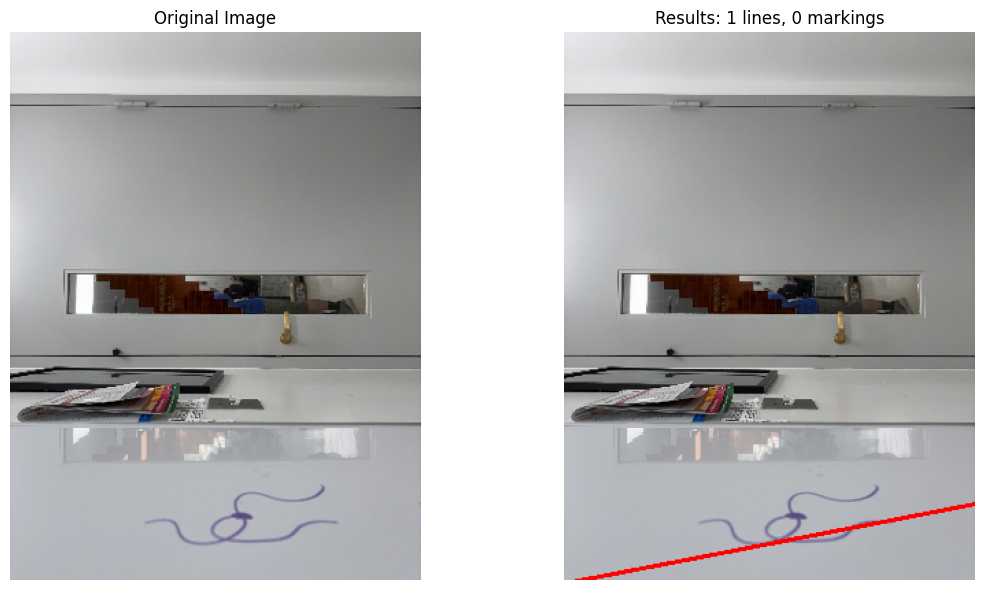
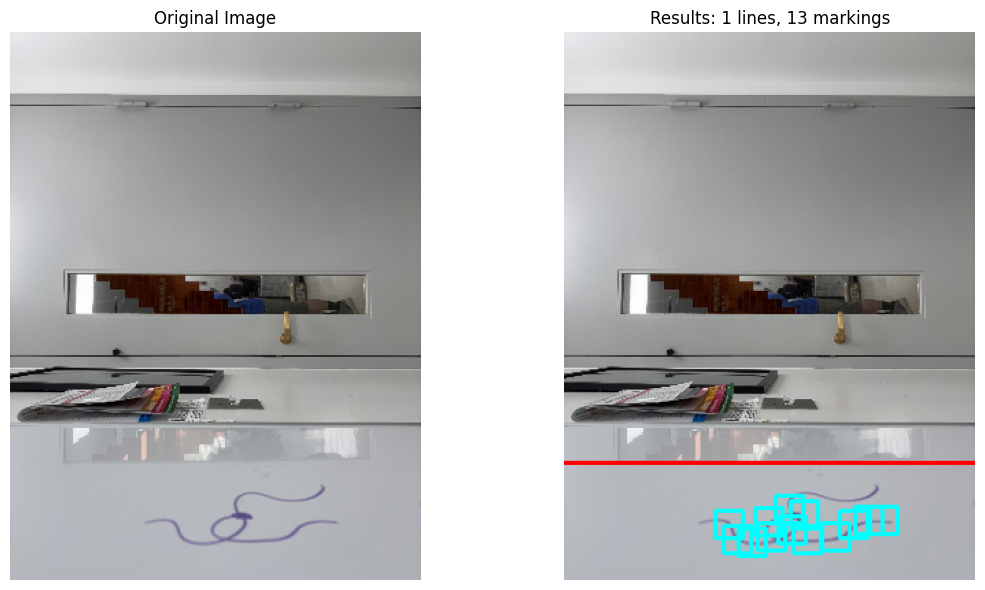
edits to picam compatibility

diff --git a/whiteboard_tracker5.py b/whiteboard_tracker5.py
@@ -70,70 +70,135 @@ class WhiteboardTracker5:
                   f"low_contrast={is_low_contrast}")
         
         return is_low_contrast
+    
+    def detect_camera_type_and_preprocess(self, image: np.ndarray) -> np.ndarray:
+        """Detect camera type and apply appropriate preprocessing"""
+        # Analyze image characteristics to detect camera type
+        gray = cv2.cvtColor(image, cv2.COLOR_BGR2GRAY)
+        
+        # Calculate image statistics
+        mean_brightness = np.mean(gray)
+        std_brightness = np.std(gray)
+        
+        # Check for Pi camera characteristics
+        # Pi camera tends to produce overexposed, low-contrast images
+        is_likely_pi_camera = (
+            mean_brightness > 180 or  # Overexposed
+            std_brightness < 25       # Low contrast
+        )
+        
+        if self.debug:
+            print(f"  Image analysis: mean_brightness={mean_brightness:.1f}, std={std_brightness:.1f}")
+            print(f"  Likely Pi camera: {is_likely_pi_camera}")
+        
+        if is_likely_pi_camera:
+            # Apply Pi camera specific preprocessing
+            processed_image = self.preprocess_pi_camera_image(image)
+        else:
+            # iPhone or other camera - minimal processing
+            processed_image = image.copy()
+        
+        return processed_image
+    
+    def preprocess_pi_camera_image(self, image: np.ndarray) -> np.ndarray:
+        """Apply preprocessing specifically for Pi Camera Module 3 images"""
+        if self.debug:
+            print("  Applying Pi camera preprocessing...")
+        
+        # Convert to LAB color space for better control
+        lab = cv2.cvtColor(image, cv2.COLOR_BGR2LAB)
+        l, a, b = cv2.split(lab)
+        
+        # Method 1: Enhance contrast using CLAHE on L channel
+        clahe = cv2.createCLAHE(clipLimit=2.0, tileGridSize=(8,8))
+        l_enhanced = clahe.apply(l)
+        
+        # Method 2: Adjust gamma to reduce overexposure
+        # Gamma correction: lower gamma darkens the image
+        gamma = 0.7  # Darken overexposed areas
+        l_gamma = np.power(l_enhanced / 255.0, gamma) * 255.0
+        l_gamma = np.uint8(np.clip(l_gamma, 0, 255))
+        
+        # Method 3: Increase contrast by stretching histogram
+        # Find 5th and 95th percentiles to ignore outliers
+        p5, p95 = np.percentile(l_gamma, (5, 95))
+        if p95 > p5:  # Avoid division by zero
+            l_stretched = np.clip((l_gamma - p5) * 255 / (p95 - p5), 0, 255).astype(np.uint8)
+        else:
+            l_stretched = l_gamma
+        
+        # Recombine LAB channels
+        lab_enhanced = cv2.merge([l_stretched, a, b])
+        
+        # Convert back to BGR
+        enhanced_image = cv2.cvtColor(lab_enhanced, cv2.COLOR_LAB2BGR)
+        
+        # Optional: Slight sharpening to enhance edge definition
+        kernel_sharpen = np.array([[-1,-1,-1],
+                                  [-1, 9,-1],
+                                  [-1,-1,-1]])
+        sharpened = cv2.filter2D(enhanced_image, -1, kernel_sharpen * 0.3)  # Mild sharpening
+        
+        return sharpened
         
     def find_whiteboard_surface_improved(self, image: np.ndarray) -> np.ndarray:
-        """Improved whiteboard surface detection focusing on actual whiteboard area"""
+        """Enhanced whiteboard surface detection with Pi camera support"""
         gray = cv2.cvtColor(image, cv2.COLOR_BGR2GRAY)
         h, w = gray.shape
         
-        # Focus on bottom 60% where whiteboard surface appears (more focused)
-        bottom_start = int(h * 0.4)  # Changed to 0.4 to focus on bottom 60%
+        # Focus on bottom 60% where whiteboard surface appears
+        bottom_start = int(h * 0.4)
         bottom_region = gray[bottom_start:, :]
         
         if self.debug:
             print(f"  Processing region: {w}x{h-bottom_start} (bottom 60%)")
         
-        # Use adaptive thresholding for better whiteboard detection
-        # Whiteboard should be consistently bright
-        p75 = np.percentile(bottom_region, 75)
-        p90 = np.percentile(bottom_region, 90)
+        # Adaptive approach based on image characteristics
+        mean_brightness = np.mean(bottom_region)
+        std_brightness = np.std(bottom_region)
         
-        # Use adaptive threshold - try strict first, then fallback to more lenient
-        strict_threshold = max(180, p90 * 0.9)
-        lenient_threshold = max(160, p75 * 0.8)
+        if self.debug:
+            print(f"  Region stats: mean={mean_brightness:.1f}, std={std_brightness:.1f}")
         
-        # Try strict threshold first
-        surface_mask = ((bottom_region > strict_threshold) * 255).astype(np.uint8)
+        # Method selection based on image characteristics
+        if mean_brightness > 200 and std_brightness < 20:
+            # Likely Pi camera - overexposed, low contrast
+            if self.debug:
+                print("  Using Pi camera detection method")
+            surface_mask = self.detect_surface_pi_camera(bottom_region)
+        elif std_brightness < 30:
+            # Low contrast case - use relative thresholding
+            if self.debug:
+                print("  Using low-contrast detection method")
+            surface_mask = self.detect_surface_low_contrast(bottom_region)
+        else:
+            # High contrast case - use standard detection
+            if self.debug:
+                print("  Using standard detection method")
+            surface_mask = self.detect_surface_standard(bottom_region)
         
-        # More aggressive cleanup to remove noise
-        surface_mask = cv2.morphologyEx(surface_mask, cv2.MORPH_OPEN, self.kernel_3x3)
-        surface_mask = cv2.morphologyEx(surface_mask, cv2.MORPH_CLOSE, self.kernel_5x5)
+        # Apply morphological operations based on detected surface quality
+        surface_area = np.count_nonzero(surface_mask)
+        region_area = bottom_region.shape[0] * bottom_region.shape[1]
+        surface_ratio = surface_area / region_area
         
-        # Keep only largest connected component that's reasonably sized
-        num_labels, labels, stats, _ = cv2.connectedComponentsWithStats(surface_mask, connectivity=8)
+        if surface_ratio < 0.05:
+            # Very small surface detected - likely noise, try alternative method
+            if self.debug:
+                print(f"  Small surface ({surface_ratio:.3f}), trying edge-based detection")
+            surface_mask = self.detect_surface_edge_based(bottom_region)
         
-        largest_area = 0
-        min_whiteboard_area = (h - bottom_start) * w * 0.1  # At least 10% of region
-        
-        if num_labels > 1:
-            # Find largest component that's also reasonably sized for a whiteboard
-            areas = stats[1:, cv2.CC_STAT_AREA]
-            largest_idx = np.argmax(areas) + 1
-            largest_area = areas[largest_idx - 1]
+        # Clean up the mask
+        if np.count_nonzero(surface_mask) > 0:
+            # Light morphological operations to preserve surface boundaries
+            surface_mask = cv2.morphologyEx(surface_mask, cv2.MORPH_CLOSE, self.kernel_3x3)
             
-            if largest_area > min_whiteboard_area:
+            # Keep only largest connected component
+            num_labels, labels, stats, _ = cv2.connectedComponentsWithStats(surface_mask, connectivity=8)
+            if num_labels > 1:
+                areas = stats[1:, cv2.CC_STAT_AREA]
+                largest_idx = np.argmax(areas) + 1
                 surface_mask = ((labels == largest_idx) * 255).astype(np.uint8)
-            else:
-                if self.debug:
-                    print(f"    Strict threshold failed: {largest_area} < {min_whiteboard_area}")
-                # Try lenient threshold as fallback
-                surface_mask = ((bottom_region > lenient_threshold) * 255).astype(np.uint8)
-                surface_mask = cv2.morphologyEx(surface_mask, cv2.MORPH_CLOSE, self.kernel_5x5)
-                
-                num_labels2, labels2, stats2, _ = cv2.connectedComponentsWithStats(surface_mask, connectivity=8)
-                if num_labels2 > 1:
-                    areas2 = stats2[1:, cv2.CC_STAT_AREA]
-                    largest_idx2 = np.argmax(areas2) + 1
-                    largest_area = areas2[largest_idx2 - 1]
-                    
-                    if largest_area > min_whiteboard_area:
-                        surface_mask = ((labels2 == largest_idx2) * 255).astype(np.uint8)
-                        if self.debug:
-                            print(f"    Fallback threshold succeeded: {largest_area}")
-                    else:
-                        if self.debug:
-                            print(f"    Both thresholds failed: {largest_area}")
-                        return np.zeros_like(gray, dtype=np.uint8)
         
         # Create full-size mask
         full_mask = np.zeros_like(gray, dtype=np.uint8)
@@ -144,6 +209,74 @@ class WhiteboardTracker5:
             print(f"  Surface pixels: {surface_pixels} ({surface_pixels/(h*w)*100:.1f}% of image)")
         
         return full_mask
+    
+    def detect_surface_pi_camera(self, region: np.ndarray) -> np.ndarray:
+        """Surface detection optimized for Pi camera characteristics"""
+        # Pi camera images are often overexposed with poor contrast
+        # Use relative thresholding and look for the brightest, most uniform areas
+        
+        # Method 1: Use very conservative percentile thresholding
+        p60 = np.percentile(region, 60)
+        p80 = np.percentile(region, 80)
+        
+        # For Pi camera, even the 60th percentile might be whiteboard
+        mean_brightness = np.mean(region)
+        threshold = max(p60, mean_brightness * 0.95)  # Be very conservative
+        
+        surface_mask = ((region >= threshold) * 255).astype(np.uint8)
+        
+        # Method 2: If that fails, use gradient-based detection
+        if np.count_nonzero(surface_mask) < region.size * 0.05:
+            # Look for areas with low gradient (uniform regions)
+            grad_x = cv2.Sobel(region, cv2.CV_64F, 1, 0, ksize=3)
+            grad_y = cv2.Sobel(region, cv2.CV_64F, 0, 1, ksize=3)
+            gradient_magnitude = np.sqrt(grad_x**2 + grad_y**2)
+            
+            # Low gradient areas are likely uniform surface
+            grad_threshold = np.percentile(gradient_magnitude, 20)  # Bottom 20% of gradients
+            uniform_areas = gradient_magnitude < grad_threshold
+            
+            # Combine with brightness threshold
+            bright_areas = region > np.percentile(region, 70)
+            surface_mask = ((uniform_areas & bright_areas) * 255).astype(np.uint8)
+        
+        return surface_mask
+    
+    def detect_surface_low_contrast(self, region: np.ndarray) -> np.ndarray:
+        """Surface detection for low contrast images"""
+        # Use relative thresholding based on local statistics
+        p75 = np.percentile(region, 75)
+        p90 = np.percentile(region, 90)
+        
+        # More lenient thresholding for low contrast
+        threshold = max(p75, np.mean(region) + np.std(region) * 0.5)
+        surface_mask = ((region >= threshold) * 255).astype(np.uint8)
+        
+        return surface_mask
+    
+    def detect_surface_standard(self, region: np.ndarray) -> np.ndarray:
+        """Standard surface detection for good contrast images"""
+        # Original logic - strict thresholding
+        p90 = np.percentile(region, 90)
+        strict_threshold = max(180, p90 * 0.9)
+        
+        surface_mask = ((region > strict_threshold) * 255).astype(np.uint8)
+        return surface_mask
+    
+    def detect_surface_edge_based(self, region: np.ndarray) -> np.ndarray:
+        """Edge-based surface detection as fallback"""
+        # Use edge detection to find surface boundaries, then fill
+        edges = cv2.Canny(region, 30, 90)
+        
+        # Close edge gaps to create boundaries
+        edges_closed = cv2.morphologyEx(edges, cv2.MORPH_CLOSE, self.kernel_5x5)
+        
+        # Fill enclosed areas that are likely surface
+        # This is a simplified approach - could be enhanced with contour analysis
+        kernel_large = cv2.getStructuringElement(cv2.MORPH_ELLIPSE, (15, 15))
+        filled = cv2.morphologyEx(edges_closed, cv2.MORPH_CLOSE, kernel_large)
+        
+        return filled
     
     def detect_whiteboard_boundary_edges(self, image: np.ndarray, surface_mask: np.ndarray) -> np.ndarray:
         """Detect edges specifically where whiteboard surface terminates (not frame edges)"""
@@ -786,23 +919,26 @@ class WhiteboardTracker5:
         start_time = time.time()
         
         try:
-            # Step 0: Analyze background contrast to choose appropriate method
-            self.is_low_contrast_scene = self.analyze_background_contrast(image)
+            # Step 0: Camera-specific preprocessing
+            processed_image = self.detect_camera_type_and_preprocess(image)
             
-            # Step 1: Improved surface detection
-            surface_mask = self.find_whiteboard_surface_improved(image)
+            # Step 1: Analyze background contrast to choose appropriate method
+            self.is_low_contrast_scene = self.analyze_background_contrast(processed_image)
+            
+            # Step 2: Improved surface detection with enhanced image
+            surface_mask = self.find_whiteboard_surface_improved(processed_image)
             
             if np.count_nonzero(surface_mask) < 1000:  # Higher threshold for better accuracy
                 if self.debug:
                     print("  Insufficient whiteboard surface area detected")
                 return None
             
-            # Step 2: Hybrid edge detection strategy - try standard first, then supplement if needed
+            # Step 3: Hybrid edge detection strategy - try standard first, then supplement if needed
             if self.debug:
                 print("  Trying standard edge detection first")
             
             # Always try standard detection first
-            edges = self.detect_whiteboard_boundary_edges(image, surface_mask)
+            edges = self.detect_whiteboard_boundary_edges(processed_image, surface_mask)
             edge_lines = self.find_whiteboard_lines(edges)
             
             # If insufficient lines found, supplement with gradient-based detection
@@ -811,7 +947,7 @@ class WhiteboardTracker5:
                     print(f"  Standard detection found {len(edge_lines)} lines, supplementing with gradient-based")
                 
                 # Try gradient-based detection 
-                gradient_edges = self.detect_edges_gradient_based(image, surface_mask)
+                gradient_edges = self.detect_edges_gradient_based(processed_image, surface_mask)
                 gradient_lines = self.find_whiteboard_lines(gradient_edges)
                 
                 # Combine results, avoiding duplicates
@@ -842,19 +978,19 @@ class WhiteboardTracker5:
                 if self.debug:
                     print(f"  Standard detection sufficient: {len(edge_lines)} lines")
             
-            # Step 3: Targeted right edge detection for wall scenarios
+            # Step 4: Targeted right edge detection for wall scenarios
             if len(edge_lines) == 1 and self.is_low_contrast_scene:
                 if self.debug:
                     print("  Attempting targeted right edge detection for wall scenario")
                 
-                right_edge = self.detect_right_edge_simple(image, surface_mask)
+                right_edge = self.detect_right_edge_simple(processed_image, surface_mask)
                 if right_edge is not None:
                     edge_lines.append(right_edge)
                     if self.debug:
                         print("  Added right edge candidate")
             
-            # Step 4: Improved marking detection with 20x20 boxes
-            marking_boxes = self.detect_markings_20x20(image, surface_mask, edge_lines)
+            # Step 5: Improved marking detection with 20x20 boxes
+            marking_boxes = self.detect_markings_20x20(processed_image, surface_mask, edge_lines)
             
             processing_time = time.time() - start_time
             self.processing_times.append(processing_time)
